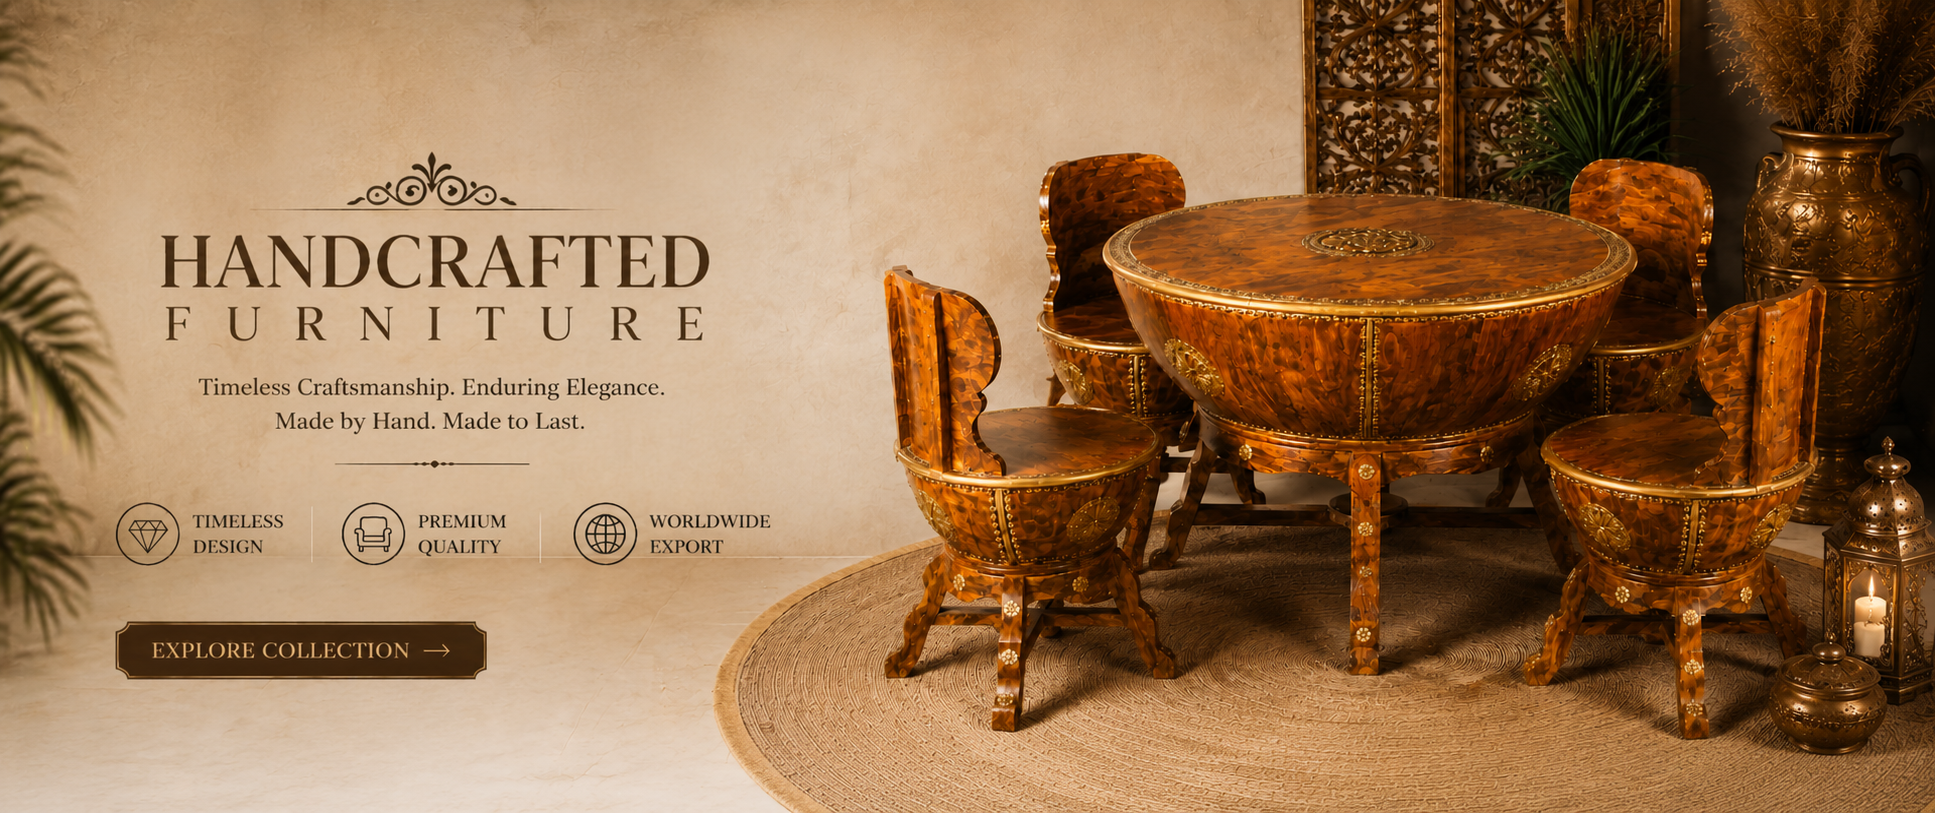
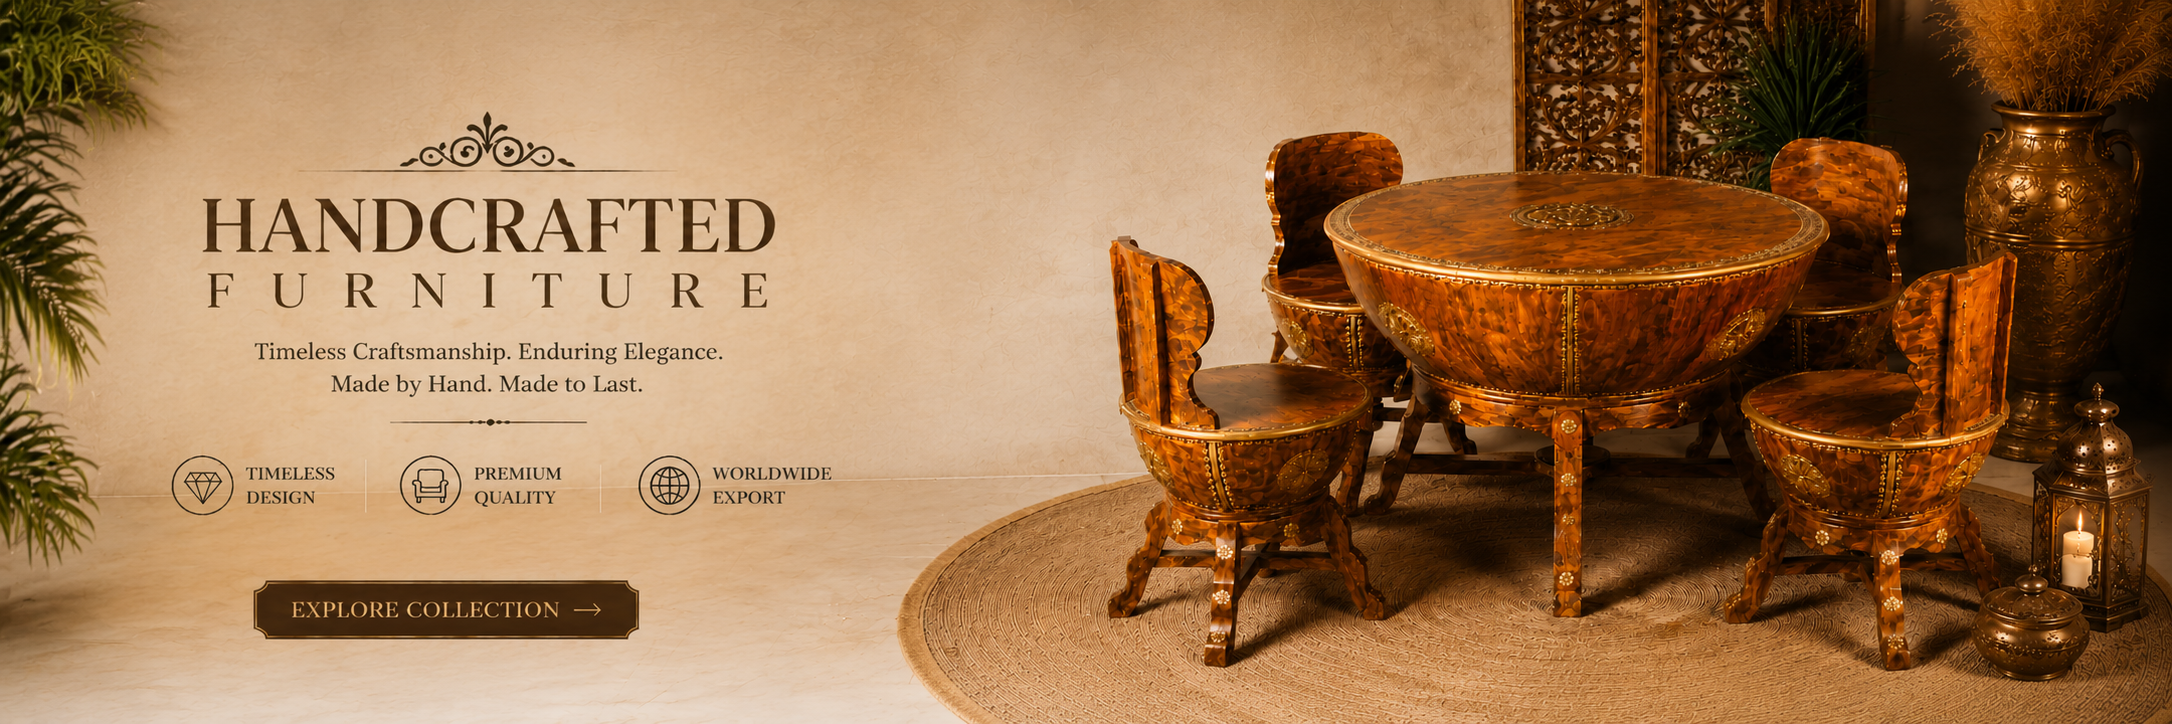
Fix Banner3/4 desktop aspect ratio, rename video gallery categories
- Replace Banner3-des.png and Banner4-des.png with correctly-ratioed
  2172x724 artwork (was 1935x813 / 1942x809), uploaded to Cloudinary
- Rename video gallery categories: etsy -> Marble Furniture,
  Wash Basins -> Counter Top Washbasin

diff --git a/scripts/upload-banner3-4-ratio-fix.js b/scripts/upload-banner3-4-ratio-fix.js
@@ -1,0 +1,116 @@
+/**
+ * Upload the ratio-corrected Banner3/Banner4 desktop artwork to Cloudinary,
+ * overwriting the existing hs-global/hero/Banner3-des(.webp) / Banner4-des(.webp) assets.
+ *
+ * Source: frontend-new/public/Banner3-des.png, Banner4-des.png (already replaced in place, 2172x724)
+ */
+
+const sharp = require('sharp');
+const cloudinary = require('cloudinary').v2;
+const fs = require('fs');
+const path = require('path');
+require('dotenv').config({ path: path.join(__dirname, '../backend/.env') });
+
+const CONFIG = {
+    sourceDir: path.join(__dirname, '../frontend-new/public'),
+    tempDir: path.join(__dirname, '../temp-hero-optimized'),
+    outputFile: path.join(__dirname, '../hero-banner3-4-ratio-fix-cloudinary-urls.json'),
+    cloudinary: {
+        cloud_name: process.env.CLOUDINARY_CLOUD_NAME,
+        api_key: process.env.CLOUDINARY_API_KEY,
+        api_secret: process.env.CLOUDINARY_API_SECRET,
+        folder: 'hs-global/hero'
+    },
+    files: [
+        { source: 'Banner3-des.png', publicId: 'Banner3-des', maxWidth: 1920 },
+        { source: 'Banner4-des.png', publicId: 'Banner4-des', maxWidth: 1920 },
+    ],
+    quality: 85,
+};
+
+function formatBytes(bytes) {
+    if (bytes === 0) return '0 Bytes';
+    const k = 1024;
+    const sizes = ['Bytes', 'KB', 'MB', 'GB'];
+    const i = Math.floor(Math.log(bytes) / Math.log(k));
+    return Math.round((bytes / Math.pow(k, i)) * 100) / 100 + ' ' + sizes[i];
+}
+
+function getFileSize(filePath) {
+    try { return fs.statSync(filePath).size; } catch { return 0; }
+}
+
+async function main() {
+    console.log('='.repeat(60));
+    console.log('🚀 BANNER 3 & 4 (RATIO FIX) - CLOUDINARY UPLOAD');
+    console.log('='.repeat(60) + '\n');
+
+    if (!CONFIG.cloudinary.cloud_name || !CONFIG.cloudinary.api_key || !CONFIG.cloudinary.api_secret) {
+        console.error('❌ Cloudinary credentials not found in backend/.env');
+        process.exit(1);
+    }
+    cloudinary.config(CONFIG.cloudinary);
+    console.log(`✓ Connected to Cloudinary: ${CONFIG.cloudinary.cloud_name}`);
+    if (!fs.existsSync(CONFIG.tempDir)) fs.mkdirSync(CONFIG.tempDir, { recursive: true });
+
+    const urlMappings = {};
+
+    for (const { source, publicId, maxWidth } of CONFIG.files) {
+        const inputPath = path.join(CONFIG.sourceDir, source);
+        if (!fs.existsSync(inputPath)) {
+            console.error(`  ✗ Not found: ${source}`);
+            process.exit(1);
+        }
+        const originalSize = getFileSize(inputPath);
+        const outputPath = path.join(CONFIG.tempDir, source.replace(/\.png$/i, '.webp'));
+
+        const metadata = await sharp(inputPath).metadata();
+        let width = metadata.width;
+        if (width > maxWidth) width = maxWidth;
+
+        await sharp(inputPath)
+            .resize(width, null, { fit: 'inside', withoutEnlargement: true })
+            .webp({ quality: CONFIG.quality, effort: 6 })
+            .toFile(outputPath);
+
+        const optimizedSize = getFileSize(outputPath);
+        const savings = ((originalSize - optimizedSize) / originalSize * 100).toFixed(1);
+        console.log(`  ✓ ${source} ${formatBytes(originalSize)} → ${formatBytes(optimizedSize)} (${savings}%)`);
+
+        const result = await cloudinary.uploader.upload(outputPath, {
+            folder: CONFIG.cloudinary.folder,
+            public_id: publicId,
+            use_filename: false,
+            unique_filename: false,
+            overwrite: true,
+            invalidate: true,
+            resource_type: 'image'
+        });
+
+        urlMappings[source] = {
+            source,
+            publicId: result.public_id,
+            cloudinary: result.secure_url,
+            format: result.format,
+            width: result.width,
+            height: result.height,
+            bytes: result.bytes,
+            version: result.version
+        };
+        console.log(`  ☁  ${source} → ${result.secure_url}`);
+    }
+
+    fs.writeFileSync(CONFIG.outputFile, JSON.stringify({ generated: new Date().toISOString(), urls: urlMappings }, null, 2));
+    console.log(`\n💾 Mappings saved: ${CONFIG.outputFile}`);
+
+    try { fs.rmSync(CONFIG.tempDir, { recursive: true, force: true }); } catch (_) {}
+
+    console.log('\n' + '='.repeat(60));
+    console.log('✅ Done.');
+    console.log('='.repeat(60) + '\n');
+}
+
+main().catch((err) => {
+    console.error('\n❌ Error:', err.message);
+    process.exit(1);
+});
